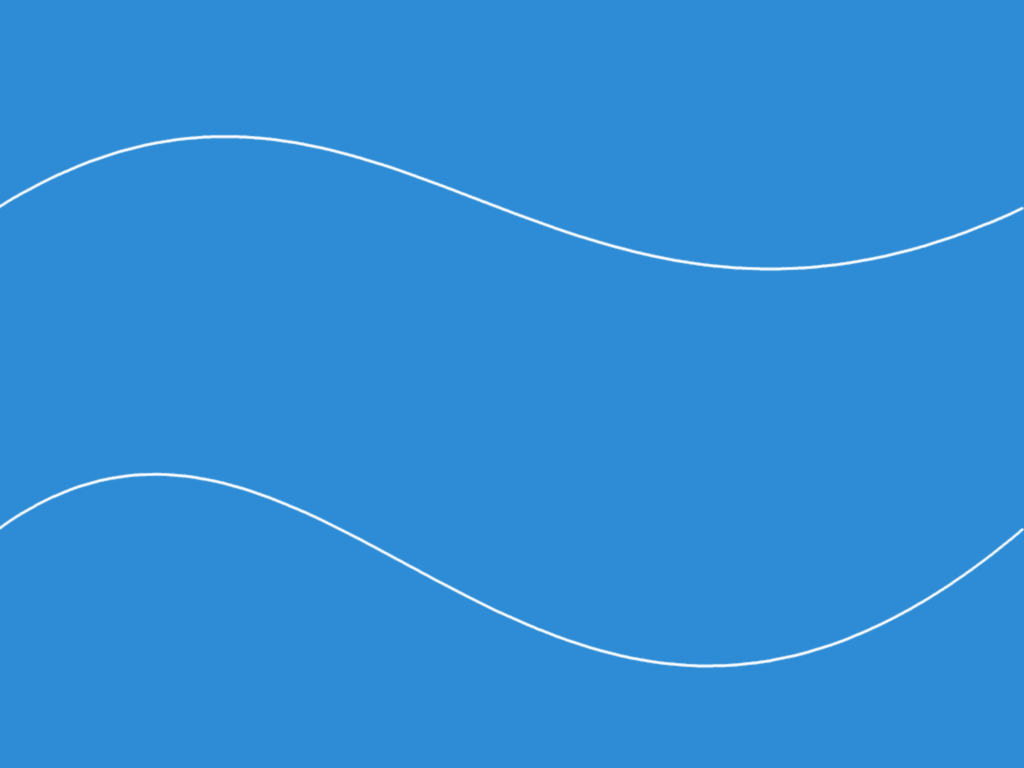
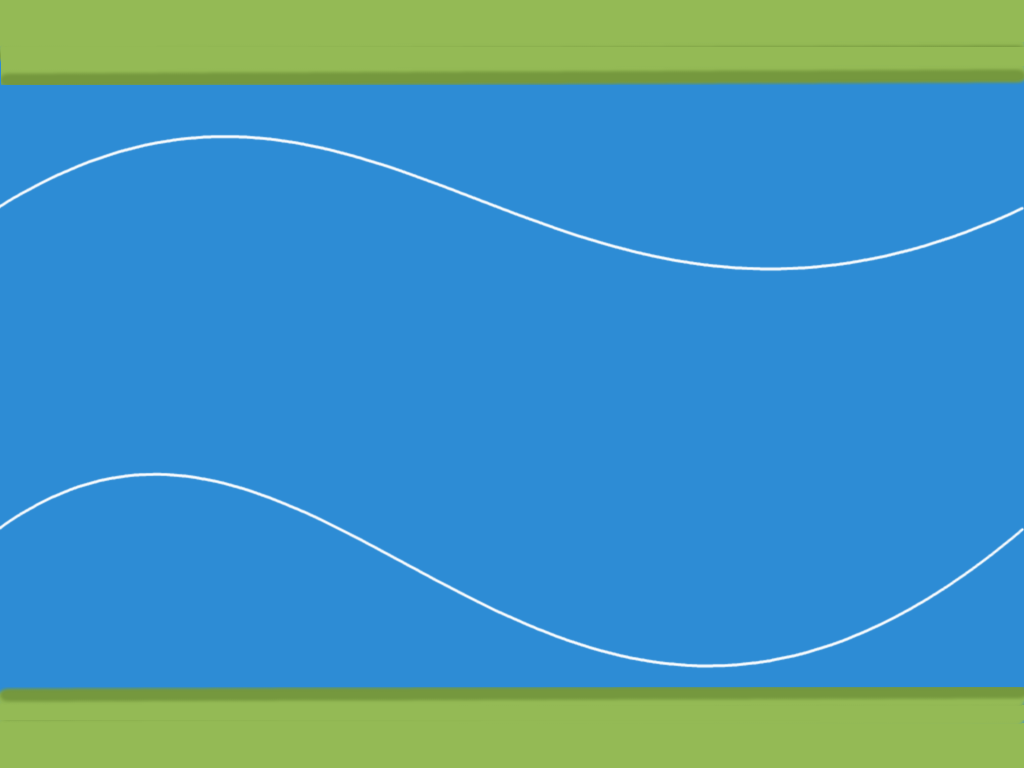
Added river boundaries

Changed region(s): [[0.0, 0.875, 1.0, 1.0], [0.0, 0.0, 1.0, 0.125]]

diff --git a/Assets/Scripts/Controllers/GameController.cs b/Assets/Scripts/Controllers/GameController.cs
@@ -5,6 +5,7 @@ public class GameController : MonoBehaviour
 {
 	public GameObject hazard;
 	public Vector3 spawnValues;
+	public Vector3 spawnValueOffsets;
 	public int hazardCount;
 	public float startWait;
 	public float waveWait;
@@ -49,6 +50,7 @@ public class GameController : MonoBehaviour
 	void Start()
 	{
 		gameOverText.text = "";
+		gameOverScoreText.text = "";
 		restartText.text = "";
 		AddScore(0);
 		StartCoroutine(SpawnWaves());
@@ -70,20 +72,19 @@ public class GameController : MonoBehaviour
 	{
 		yield return new WaitForSeconds(startWait);
 
-		while (!isGameOver)
+		while (true)
 		{
 			for (int i = 0; i < hazardCount; ++i)
 			{
-				Vector3 spawnPosition = new Vector3(spawnValues.x, Random.Range(-spawnValues.y, spawnValues.y), spawnValues.z);
+				Vector3 spawnPosition = new Vector3(spawnValueOffsets.x + spawnValues.x,
+				                                    spawnValueOffsets.y + Random.Range(-spawnValues.y, spawnValues.y),
+				                                    spawnValueOffsets.z + spawnValues.z);
 
 				Quaternion rotation = Quaternion.identity * Quaternion.Euler(new Vector3(90f, 0f, 0f));
 
 				Instantiate(hazard, spawnPosition, Quaternion.identity);
 
 				yield return new WaitForSeconds(Random.Range(spawnWaitLowerLimit, spawnWaitUpperLimit));
-
-				if (isGameOver)
-					break;
 			}
 
 			yield return new WaitForSeconds(waveWait);

diff --git a/Assets/Scripts/RiverBoundary.cs b/Assets/Scripts/RiverBoundary.cs
@@ -1,0 +1,13 @@
+using UnityEngine;
+using System.Collections;
+
+public class RiverBoundary : MonoBehaviour
+{
+	void OnTriggerEnter(Collider other) 
+	{
+		if (other.tag == "Player")
+		{
+			other.rigidbody.velocity = -1 * other.rigidbody.velocity;
+		}
+	}
+}
